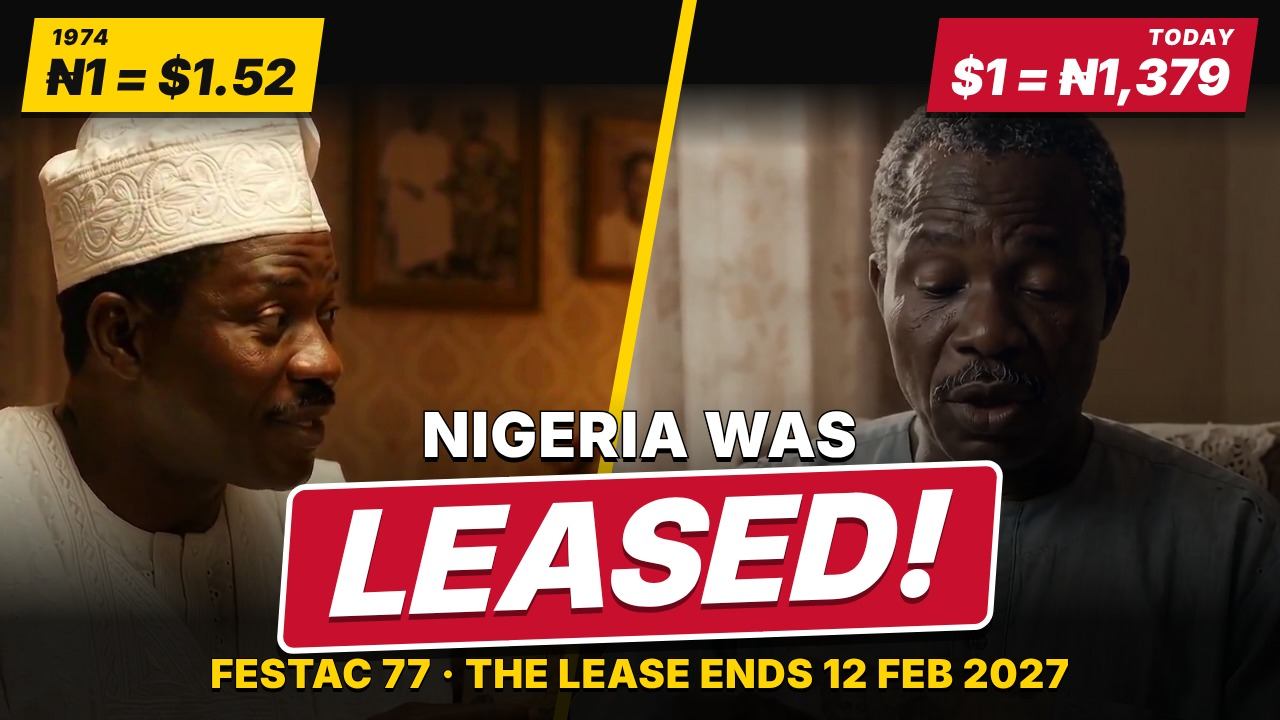
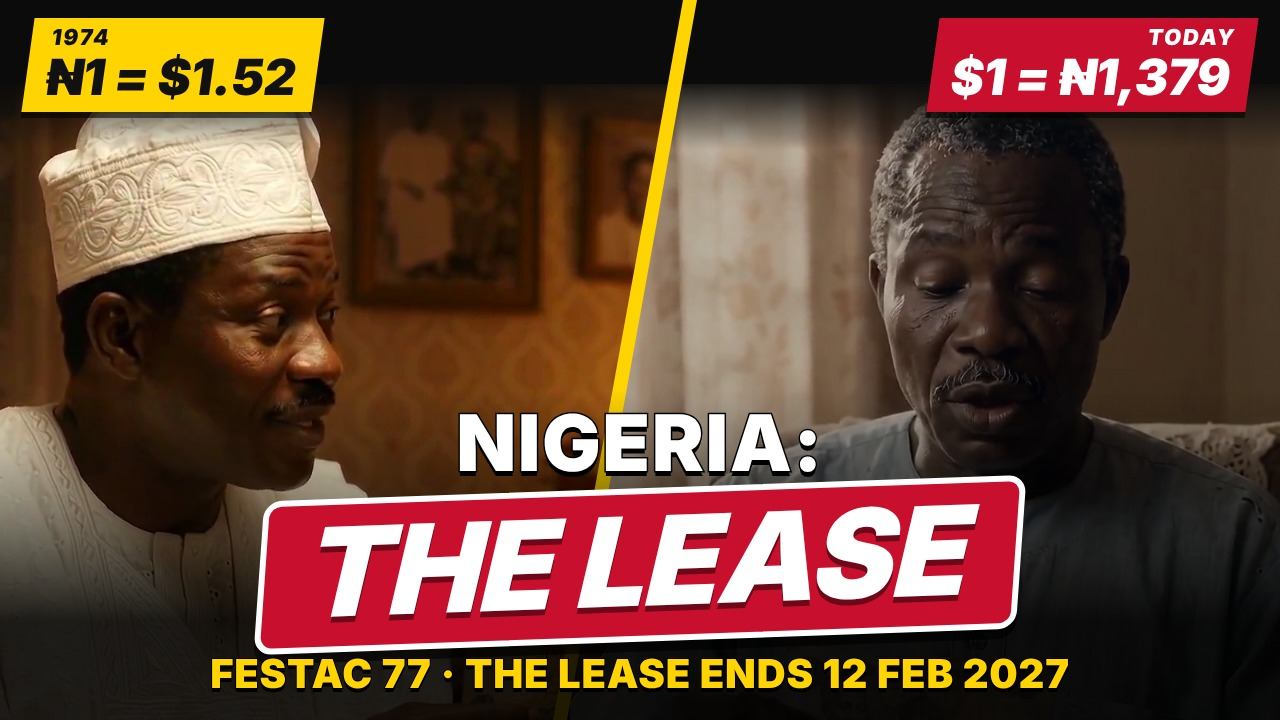
The film is now called Nigeria: The Lease: title card, thumbnail, YouTube text, screenplay
Claude-Session: https://claude.ai/code/session_01LLnHLEPYRDT8FVHNG9nvbz

Changed region(s): [[0.1875, 0.55, 0.8125, 0.9167]]

diff --git a/scripts/drama-assemble.js b/scripts/drama-assemble.js
@@ -142,8 +142,8 @@ async function main() {
   await page.screenshot({ path: prodPng });
   const prodSeg = path.join(work, 'seg-0000.mp4'); await cardSegment(prodPng, 4, prodSeg, { fadeIn: false }); segments.push(prodSeg); total += 4;
   const titlePng = path.join(work, 'title.png');
-  await page.setContent(cardHtml({ kicker: 'A dramatisation', title: 'FESTAC 77: The Lease', bg: bgUrl,
-    lines: ['The four weeks that changed Nigeria, and the day in 2027 when the lease on her expires.', 'The Oyelaran family is invented; the dates and facts are documented.'] }), { waitUntil: 'load' });
+  await page.setContent(cardHtml({ kicker: 'A dramatisation', title: 'Nigeria: The Lease', bg: bgUrl,
+    lines: ['FESTAC 77, the four weeks that changed Nigeria, and the day in 2027 when the lease on her expires.', 'The Oyelaran family is invented; the dates and facts are documented.'] }), { waitUntil: 'load' });
   await page.screenshot({ path: titlePng });
   const titleSeg = path.join(work, 'seg-000.mp4'); await cardSegment(titlePng, 6, titleSeg); segments.push(titleSeg); total += 6;
 

diff --git a/video-scripts/festac-77-drama-screenplay.md b/video-scripts/festac-77-drama-screenplay.md
@@ -1,4 +1,4 @@
-# FESTAC 77: The Lease
+# Nigeria: The Lease
 
 **A dramatised film with narrator, in thirteen scenes. Running time about 14 minutes.**
 
@@ -45,7 +45,7 @@ Every public fact in the narration (dates, figures, what was done at the festiva
 
 **NARRATOR:** This man was there. He was ten years old. He has carried this programme for fifty years, and he knows what that date means, because of something his mother said at a dinner table in 1976, and something a pastor said to him last year. To understand why he is standing here, you have to go back to a time when Nigeria lent money to the world.
 
-*Title card over the theatre: **FESTAC 77: THE LEASE**.*
+*Title card over the theatre: **NIGERIA: THE LEASE**.*
 
 ---
 
@@ -349,7 +349,7 @@ Every public fact in the narration (dates, figures, what was done at the festiva
 
 *Title card:*
 
-> **FESTAC 77: THE LEASE**
+> **NIGERIA: THE LEASE**
 > Read the full account, with every source, at
 > **gloriousanchor.com/articles/festac-77-nigeria-idolatry-repentance/**
 > Glorious Anchor. Christian news, voices and video, anchored in one place.

diff --git a/video-scripts/festac-77-drama-shots.md b/video-scripts/festac-77-drama-shots.md
@@ -1,4 +1,4 @@
-# FESTAC 77: The Lease — shot list for AI-generated clips
+# Nigeria: The Lease — shot list for AI-generated clips
 
 Each `###` block is one clip for Google Veo (8 seconds, 16:9, native sound). `chars:` names the character
 portraits passed as reference images so faces stay the same from clip to clip. The prompt body is sent as written,
